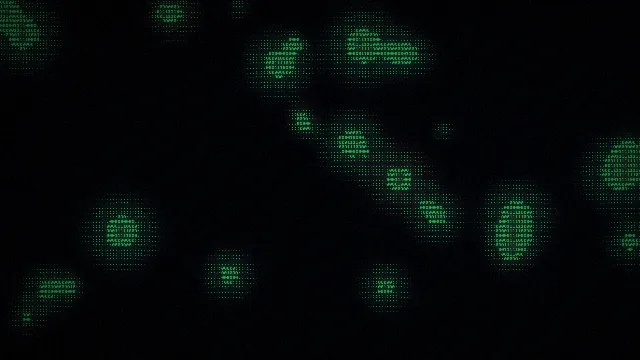
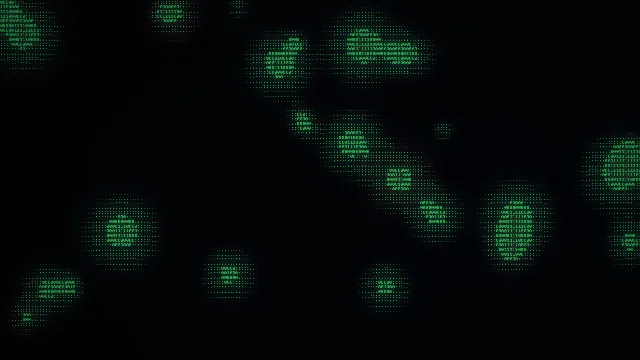
Add vignette size, default vignette to 0.1 and grain to 0, and debounce the preview by 100 ms

diff --git a/src/engine/params.ts b/src/engine/params.ts
@@ -100,6 +100,7 @@ export interface Params {
   scanlines: number; // 0..1
   scanlineSpacing: number; // px
   vignette: number; // 0..1
+  vignetteSize: number; // scales the clear center; 1 = darkening starts at 35% of the half-diagonal
   vignetteX: number; // 0..1 vignette center, fraction of width
   vignetteY: number; // 0..1 fraction of height
   chromatic: number; // px
@@ -153,22 +154,23 @@ export const DEFAULTS: Params = {
   bloomThreshold: 0.4,
   scanlines: 0,
   scanlineSpacing: 4,
-  vignette: 0.2,
+  vignette: 0.1,
+  vignetteSize: 1,
   vignetteX: 0.5,
   vignetteY: 0.5,
   chromatic: 0,
-  grain: 0.04,
+  grain: 0,
   seed: 1,
 };
 
 export const PRESETS: Record<string, { description: string; params: Partial<Params> }> = {
   'soft-ascii': {
     description: 'Glowing ASCII on the highlights, over a softened copy of the photo',
-    params: { style: 'characters', cellSize: 14, threshold: 0.32, bgBlur: 3, bgOpacity: 1, haloBlur: 9, bloom: 0.6, vignette: 0.2 },
+    params: { style: 'characters', cellSize: 14, threshold: 0.32, bgBlur: 3, bgOpacity: 1, haloBlur: 9, bloom: 0.6, vignette: 0.1 },
   },
   'sharp-ascii': {
     description: 'Glowing ASCII on the highlights of the sharp photo, dimmed only around the glyphs',
-    params: { style: 'characters', cellSize: 14, threshold: 0.32, bgBlur: 0, bgOpacity: 1, haloDim: 0.2, bloom: 0.6, vignette: 0.2 },
+    params: { style: 'characters', cellSize: 14, threshold: 0.32, bgBlur: 0, bgOpacity: 1, haloDim: 0.2, bloom: 0.6, vignette: 0.1 },
   },
   cross: {
     description: 'Cross-stitch "+" and "×" marks that grow with brightness',
@@ -206,7 +208,7 @@ export const PRESETS: Record<string, { description: string; params: Partial<Para
   },
   'gameboy-dither': {
     description: 'Ordered Bayer dither in the 4-tone Game Boy palette with scanlines',
-    params: { style: 'dither', ditherAlgo: 'bayer4', palette: 'gameboy', pixelSize: 4, scanlines: 0.35, bloom: 0.2, vignette: 0.2 },
+    params: { style: 'dither', ditherAlgo: 'bayer4', palette: 'gameboy', pixelSize: 4, scanlines: 0.35, bloom: 0.2, vignette: 0.1 },
   },
   dither: {
     description: 'Plain Floyd–Steinberg dither in colors picked from the image, no other effects',
@@ -260,6 +262,7 @@ export const RANGES: Partial<Record<keyof Params, [min: number, max: number, ste
   scanlines: [0, 1, 0.01],
   scanlineSpacing: [2, 16, 0.5],
   vignette: [0, 1, 0.01],
+  vignetteSize: [0.3, 2, 0.01],
   vignetteX: [0, 1, 0.01],
   vignetteY: [0, 1, 0.01],
   chromatic: [0, 12, 0.1],

diff --git a/src/engine/render.ts b/src/engine/render.ts
@@ -475,7 +475,7 @@ function postProcess(img: FImage, p: Params, s: number, glowSource: FImage | und
   // Scanlines, vignette, grain and the final clamp in one pass.
   const sp = Math.max(1.5, p.scanlineSpacing * s);
   const lift = 1 + p.scanlines * 0.3;
-  const vig = p.vignette > 0 ? vignetteMask(w, h, p.vignette, p.vignetteX, p.vignetteY) : null;
+  const vig = p.vignette > 0 ? vignetteMask(w, h, p.vignette, p.vignetteSize, p.vignetteX, p.vignetteY) : null;
   const rand = mulberry32(p.seed * 7919 + 17 + frame * 104729);
   const grain = p.grain;
   for (let y = 0; y < h; y++) {
@@ -494,22 +494,22 @@ function postProcess(img: FImage, p: Params, s: number, glowSource: FImage | und
   }
 }
 
-let vigCache: { w: number; h: number; v: number; vx: number; vy: number; mask: Float32Array } | null = null;
+let vigCache: { w: number; h: number; v: number; size: number; vx: number; vy: number; mask: Float32Array } | null = null;
 // Distances are scaled by the half-size rather than the distance to each edge, so an off-center point darkens the
 // far side more than the near one.
-function vignetteMask(w: number, h: number, v: number, vx: number, vy: number): Float32Array {
+function vignetteMask(w: number, h: number, v: number, size: number, vx: number, vy: number): Float32Array {
   const c = vigCache;
-  if (c && c.w === w && c.h === h && c.v === v && c.vx === vx && c.vy === vy) return c.mask;
+  if (c && c.w === w && c.h === h && c.v === v && c.size === size && c.vx === vx && c.vy === vy) return c.mask;
   const mask = new Float32Array(w * h);
   const cx = w * vx, cy = h * vy, hw = w / 2, hh = h / 2;
   for (let y = 0; y < h; y++) {
     const dy = (y - cy) / hh;
     for (let x = 0; x < w; x++) {
       const dx = (x - cx) / hw;
-      mask[y * w + x] = 1 - v * smoothstep(0.35, 1, Math.sqrt((dx * dx + dy * dy) / 2));
+      mask[y * w + x] = 1 - v * smoothstep(0.35 * size, size, Math.sqrt((dx * dx + dy * dy) / 2));
     }
   }
-  vigCache = { w, h, v, vx, vy, mask };
+  vigCache = { w, h, v, size, vx, vy, mask };
   return mask;
 }
 

diff --git a/src/app/Inspector.tsx b/src/app/Inspector.tsx
@@ -103,8 +103,9 @@ const GROUPS: Group[] = [
     ],
   },
   {
-    title: 'Vignette', switch: { key: 'vignette', on: 0.2 }, fields: [
+    title: 'Vignette', switch: { key: 'vignette', on: 0.1 }, fields: [
       { key: 'vignette', label: 'Strength', hint: 'Darkens toward the edges.' },
+      { key: 'vignetteSize', label: 'Size', hint: 'How far the undarkened center reaches. Larger keeps more of the image clear.' },
       { key: 'vignetteX', label: 'Center', kind: 'point' },
     ],
   },

diff --git a/src/app/App.tsx b/src/app/App.tsx
@@ -322,7 +322,7 @@ export function App() {
           return { id, bitmap: res.bitmap, text: res.text, ms: res.ms };
         });
       });
-    }, params === renderedParams.current ? 0 : 150);
+    }, params === renderedParams.current ? 0 : 100);
     return () => { cancelled = true; clearTimeout(t); };
   }, [active, frame, params, previewWidth, previewHeight, renderer, view, gen, maskGen]);
 

diff --git a/README.md b/README.md
@@ -168,7 +168,7 @@ Applied after the glyphs, in this order:
 | Glow (bloom) | Halo around bright glyphs (or bright pixels for dither and photo) |
 | Color fringe | Shifts red and blue apart toward the edges, like a cheap lens |
 | Scanlines | Dark horizontal CRT lines |
-| Vignette | Darkens toward the edges; pick its center on the image |
+| Vignette | Darkens toward the edges; **Size** sets how much of the center stays clear, and you pick the center on the image |
 | Grain | Film noise |
 
 There are three kinds of blur: the background blur (under the glyphs), glyph softness (the glyphs only) and the Blur effect (everything).
